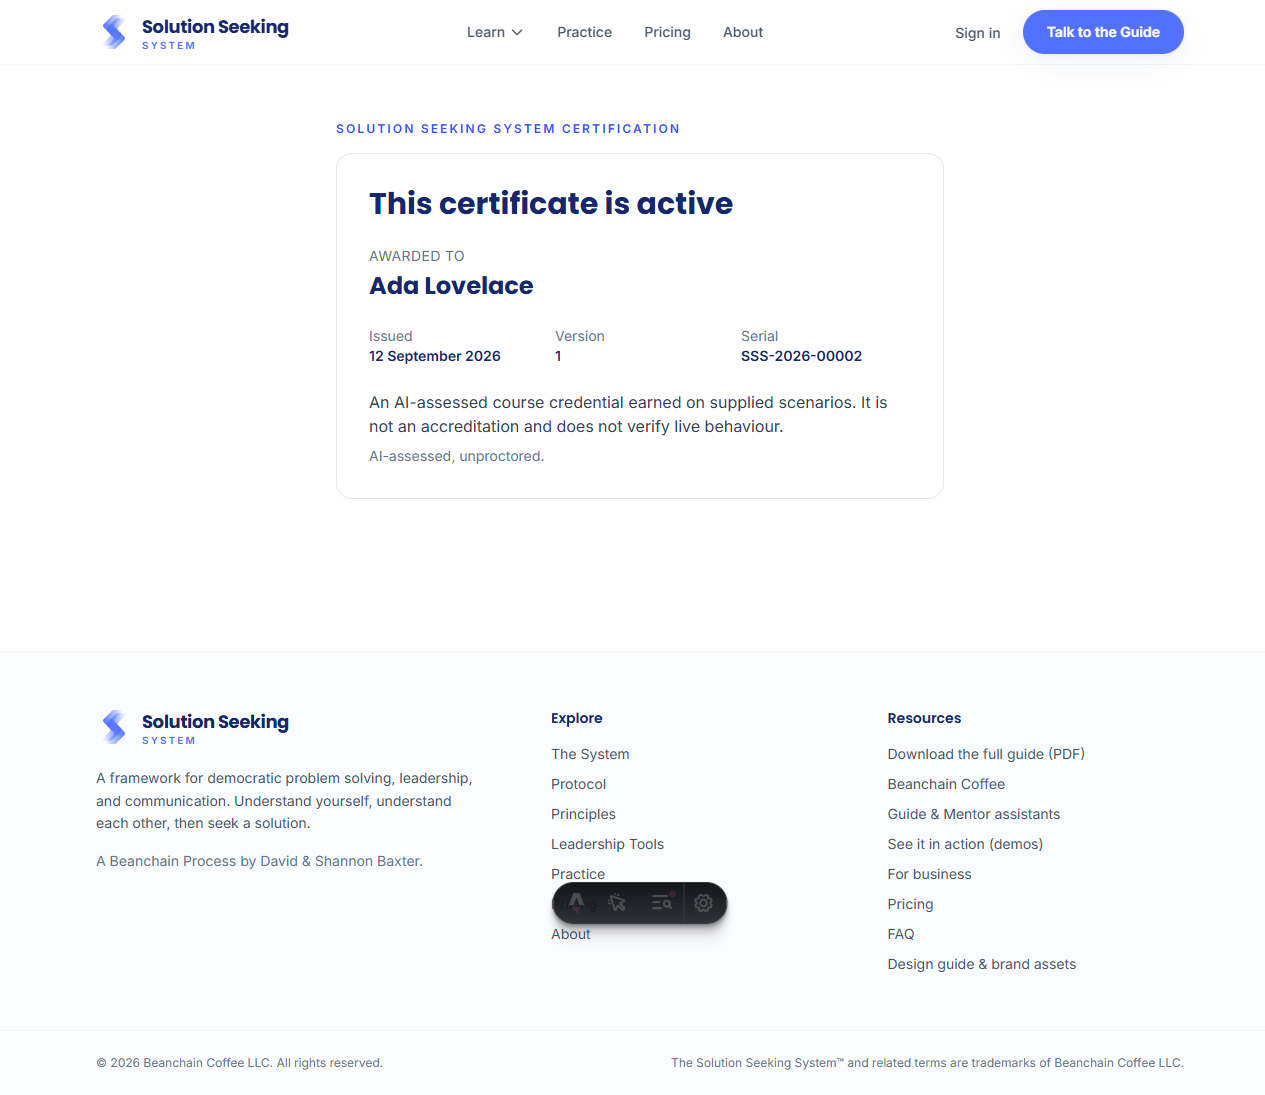
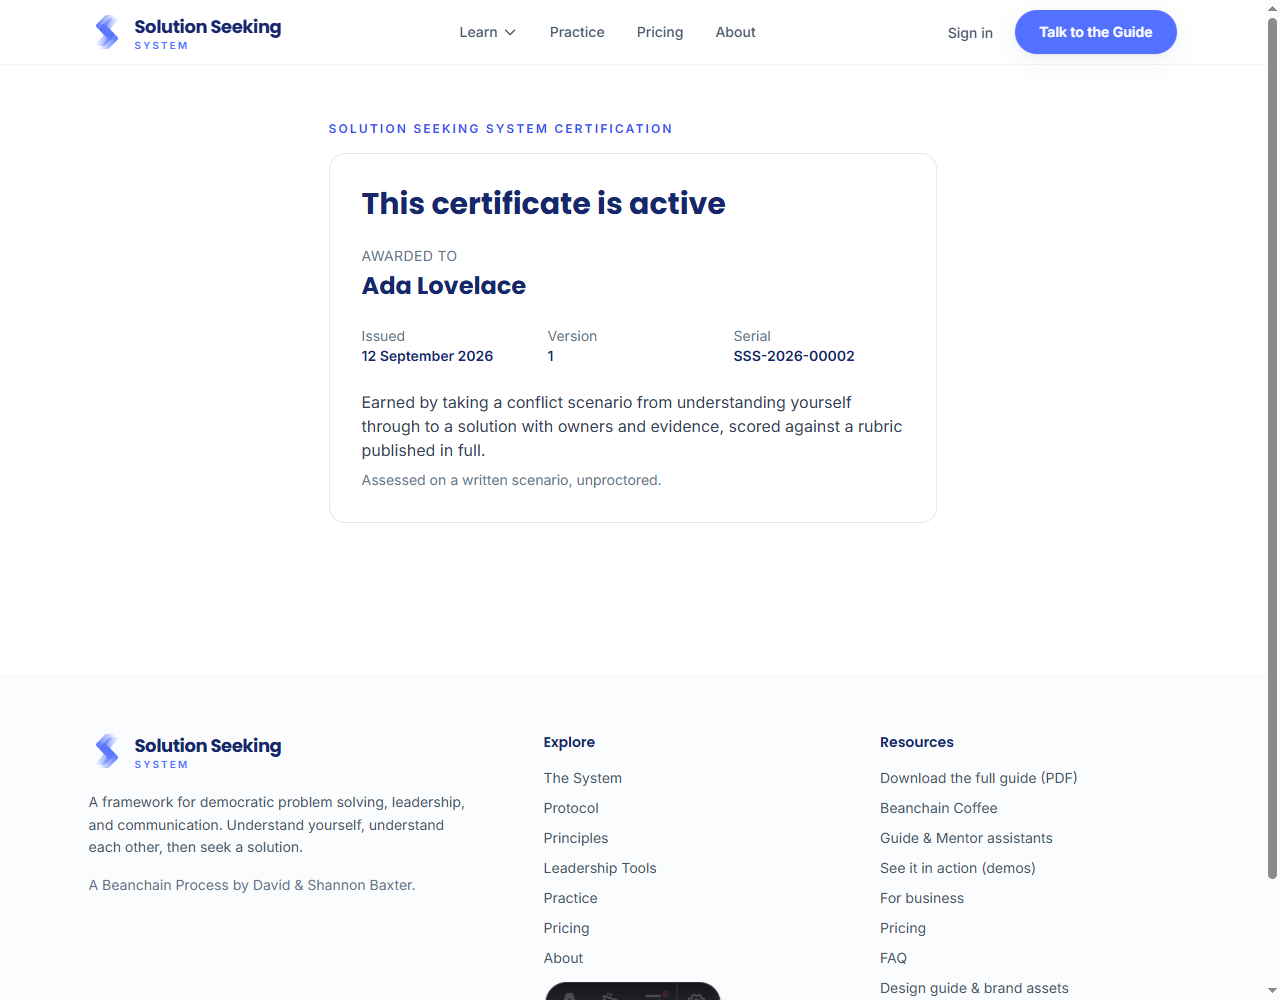
Sell the certification on what it proves, not on how it is scored
The credential led with the machinery that scores it and then with what it
does not do, which reads as a caveat rather than something worth earning.
It now says what its holder actually did: took a conflict scenario from
understanding themselves through to a solution with owners and evidence,
scored against a rubric anybody can read. The rubric being public is the
strongest claim available here, so it does the work the old sentence gave to
a disclaimer.

The same framing went everywhere a buyer or a holder meets it: the sales
page, the pricing panel, the home card, the FAQ, the markdown feeds, the
social cards, the module summary and the assessment page. How responses are
actually scored now sits on the certification page, which is where someone
goes to understand the process, stated plainly and alongside the reason the
published rubric matters. The certificate and the verification page still
say the assessment is unproctored, because a stranger checking a credential
needs that to judge what they are holding.

The FAQ and the markdown feed had their own copies of the sentence rather
than the constant, so they now read it from the one place. A test guards the
framing: the certificate and the verification page may not name the grading
machinery, and the meaning has to anchor to the rubric.

diff --git a/src/data/faq.ts b/src/data/faq.ts
@@ -4,7 +4,7 @@ import {
   FREE_ACCOUNT_MESSAGES,
 } from './pricing';
 import { COURSE, COURSE_STATUS } from './course';
-import { CERTIFICATION_TITLE, PASS_MIN_CRITERION, PASS_TOTAL } from './certification';
+import { CERTIFICATION_MEANING, CERTIFICATION_METHOD, CERTIFICATION_TITLE, PASS_MIN_CRITERION, PASS_TOTAL } from './certification';
 
 const courseVisible = COURSE_STATUS !== 'hidden';
 
@@ -60,11 +60,11 @@ export const siteFaq: { q: string; a: string }[] = [
     ? [
         {
           q: 'Is there a course?',
-          a: `Yes. The ${COURSE.title} is a paid video course with ${COURSE.presenter}: ${COURSE.plan.lessons} short lessons across ${COURSE.plan.modules} modules, an exercise and a model response for each, a printable worksheet for every module, and an AI-assessed certification at the end. Everything else on the site stays free.`,
+          a: `Yes. The ${COURSE.title} is a paid video course with ${COURSE.presenter}: ${COURSE.plan.lessons} short lessons across ${COURSE.plan.modules} modules, an exercise and a model response for each, a printable worksheet for every module, and a certification at the end. Everything else on the site stays free.`,
         },
         {
           q: `What does the ${CERTIFICATION_TITLE} mean?`,
-          a: `An AI-assessed course credential earned on supplied scenarios. It is not an accreditation and does not verify live behaviour. You pass with a weighted total of at least ${PASS_TOTAL} out of 100 and every criterion at ${PASS_MIN_CRITERION} or more, against a rubric that is published in full.`,
+          a: `${CERTIFICATION_MEANING} You pass with a weighted total of at least ${PASS_TOTAL} out of 100 and every criterion at ${PASS_MIN_CRITERION} or more. ${CERTIFICATION_METHOD}.`,
         },
       ]
     : []),

diff --git a/src/lib/llms.ts b/src/lib/llms.ts
@@ -2,6 +2,7 @@ import { getCollection, type CollectionEntry } from 'astro:content';
 import { glossary, pillars, systemDefinition } from '../data/concepts';
 import { COURSE } from '../data/course';
 import {
+  CERTIFICATION_MEANING,
   CERTIFICATION_METHOD,
   CERTIFICATION_TITLE,
   CERTIFICATION_VERSION,
@@ -235,7 +236,7 @@ export function courseToMarkdown(
   return [
     `# ${COURSE.title}`,
     '',
-    `A paid video course with ${COURSE.presenter}: ${curriculum.totalLessons} short lessons across ${curriculum.modules.length} modules, an exercise and a model response for each, a printable worksheet for every module, and an AI-assessed certification at the end. About ${COURSE.learnerHours} hours of learner time over ${COURSE.suggestedWeeks} weeks.`,
+    `A paid video course with ${COURSE.presenter}: ${curriculum.totalLessons} short lessons across ${curriculum.modules.length} modules, an exercise and a model response for each, a printable worksheet for every module, and a certification at the end. About ${COURSE.learnerHours} hours of learner time over ${COURSE.suggestedWeeks} weeks.`,
     '',
     opts.status === 'open' && opts.priceLine ? opts.priceLine : 'Not on sale yet.',
     '',
@@ -256,7 +257,7 @@ export function certificationToMarkdown(site: URL | undefined): string {
   return [
     `# ${CERTIFICATION_TITLE}`,
     '',
-    `${CERTIFICATION_METHOD}. An AI-assessed course credential earned on supplied scenarios. It is not an accreditation and does not verify live behaviour. Version ${CERTIFICATION_VERSION}.`,
+    `${CERTIFICATION_MEANING} ${CERTIFICATION_METHOD}. Version ${CERTIFICATION_VERSION}.`,
     '',
     '## Criteria',
     '',

diff --git a/src/data/certification.ts b/src/data/certification.ts
@@ -10,11 +10,18 @@
 /** Frozen before any certificate is awarded. A substantial change bumps it. */
 export const CERTIFICATION_VERSION = '1';
 export const CERTIFICATION_TITLE = 'Solution Seeking System Certification';
-export const CERTIFICATION_METHOD = 'AI-assessed, unproctored';
+/**
+ * How the credential was earned, in the smallest honest form. It sits under
+ * the meaning sentence on the certificate and the verification page, where a
+ * stranger needs enough to judge what they are looking at and nothing more.
+ * How scoring actually works belongs on the certification page, which is
+ * where someone goes to understand the process.
+ */
+export const CERTIFICATION_METHOD = 'Assessed on a written scenario, unproctored';
 
-/** The one sentence that says what the credential is and is not. Printed on the certificate, the verify page and the certification page, from here, so they cannot disagree. */
+/** What the credential says its holder can do. Printed on the certificate, the verify page and the certification page, from here, so they cannot disagree. */
 export const CERTIFICATION_MEANING =
-  'An AI-assessed course credential earned on supplied scenarios. It is not an accreditation and does not verify live behaviour.';
+  'Earned by taking a conflict scenario from understanding yourself through to a solution with owners and evidence, scored against a rubric published in full.';
 
 export const CRITERIA = [
   {

diff --git a/src/lib/course/__tests__/certification.test.ts b/src/lib/course/__tests__/certification.test.ts
@@ -3,6 +3,8 @@ import { fileURLToPath } from 'node:url';
 import { describe, expect, it } from 'vitest';
 import {
   CERTIFICATION_MEANING,
+  CERTIFICATION_METHOD,
+  CERTIFICATION_TITLE,
   CRITERIA,
   CRITERION_IDS,
   PASS_MIN_CRITERION,
@@ -45,8 +47,20 @@ describe('certification rubric data', () => {
     expect([...TOOL_IDS].sort()).toEqual(Object.keys(TOOL_ICONS).sort());
   });
 
-  it('states the meaning of the credential in house copy', () => {
-    expect(CERTIFICATION_MEANING).toMatch(/AI-assessed/);
+  it('says what the credential is worth, and anchors it to the published rubric', () => {
+    expect(CERTIFICATION_MEANING).toMatch(/rubric/i);
     expect(hasBannedCopy(CERTIFICATION_MEANING)).toBe(false);
+    expect(hasBannedCopy(CERTIFICATION_METHOD)).toBe(false);
+  });
+
+  // The credential is sold on what its holder can do. Naming the machinery that
+  // scores it, on the certificate or the page a stranger opens to check it,
+  // reads as a caveat rather than a credential. How scoring works belongs on
+  // the certification page, which is where someone goes to understand it.
+  it('leaves the grading machinery out of the certificate and the verification page', () => {
+    for (const copy of [CERTIFICATION_MEANING, CERTIFICATION_METHOD, CERTIFICATION_TITLE]) {
+      expect(copy).not.toMatch(/\bAI\b/);
+      expect(copy).not.toMatch(/automated|machine|algorithm|model-scored/i);
+    }
   });
 });

diff --git a/src/components/react/AssessmentView.tsx b/src/components/react/AssessmentView.tsx
@@ -602,7 +602,7 @@ function Intro({ status, busy, error, onStart }: { status: AssessmentStatus; bus
       <p className="text-slate-700">
         The assessment has three parts about one situation. Each part shows new information. When you continue past a part, your responses in it lock, so write each part as you would act in the real conversation.
       </p>
-      <p className="mt-3 text-slate-700">An AI grader scores your responses against the published rubric and quotes what it found. There is no time limit, and your responses save as you type.</p>
+      <p className="mt-3 text-slate-700">Your responses are scored against the published rubric, and the result quotes the passages it relied on. There is no time limit, and your responses save as you type.</p>
       {eligibility.reason === 'modules_incomplete' && (
         <p className="mt-4 text-slate-700">The final assessment opens when modules 1 to 8 and the orientation lesson are complete.</p>
       )}

diff --git a/src/pages/og/[...route].ts b/src/pages/og/[...route].ts
@@ -135,7 +135,7 @@ const pages: Record<string, OgPage> = {
     ? {
         course: {
           title: COURSE.title,
-          description: `Learn the Solution Seeking System with ${COURSE.presenter}: video lessons, practical exercises, and AI-assessed certification.`,
+          description: `Learn the Solution Seeking System with ${COURSE.presenter}: video lessons, practical exercises, and certification against a published rubric.`,
         },
         'course/certification': {
           title: CERTIFICATION_TITLE,

diff --git a/docs/roadmap.md b/docs/roadmap.md
@@ -118,8 +118,8 @@ wildcard subdomains on our own domain.
 
 The first thing on this site somebody buys once rather than subscribes to. David presents the
 whole system on video, module by module, each module closing with a printable worksheet and two
-checks; the course ends with a staged written assessment that an AI grader marks against a
-published rubric, and a pass earns a certificate. Sold from `/course`, delivered at
+checks; the course ends with a staged written assessment marked against a published rubric by an
+automated grader, and a pass earns a certificate. Sold from `/course`, delivered at
 `/course/learn/`, and deliberately independent of the chat subscription in both directions.
 
 Everything is behind one launch flag, `PUBLIC_COURSE_STATUS`, which defaults to `hidden`. That

diff --git a/docs/status.md b/docs/status.md
@@ -48,8 +48,8 @@ ramp meaning "the solution")_
 
 ### Paid video course (in progress, 4 phases)
 
-A one-time-purchase video course with a printable worksheet per module and an AI-assessed
-certification, sold from `/course` and delivered at `/course/learn/`. Design agreed
+A one-time-purchase video course with a printable worksheet per module and a certification
+earned on a written scenario, sold from `/course` and delivered at `/course/learn/`. Design agreed
 **2026-09-09** ([the spec](superpowers/specs/2026-09-09-paid-video-course-design.md)); Phase 1
 was built on branch `course` across five sub-plans, all executed **2026-09-10**, and merged to
 `main` through PRs #15 and #16 (**2026-09-11**). Production runs it hidden, so there is nothing a visitor can
